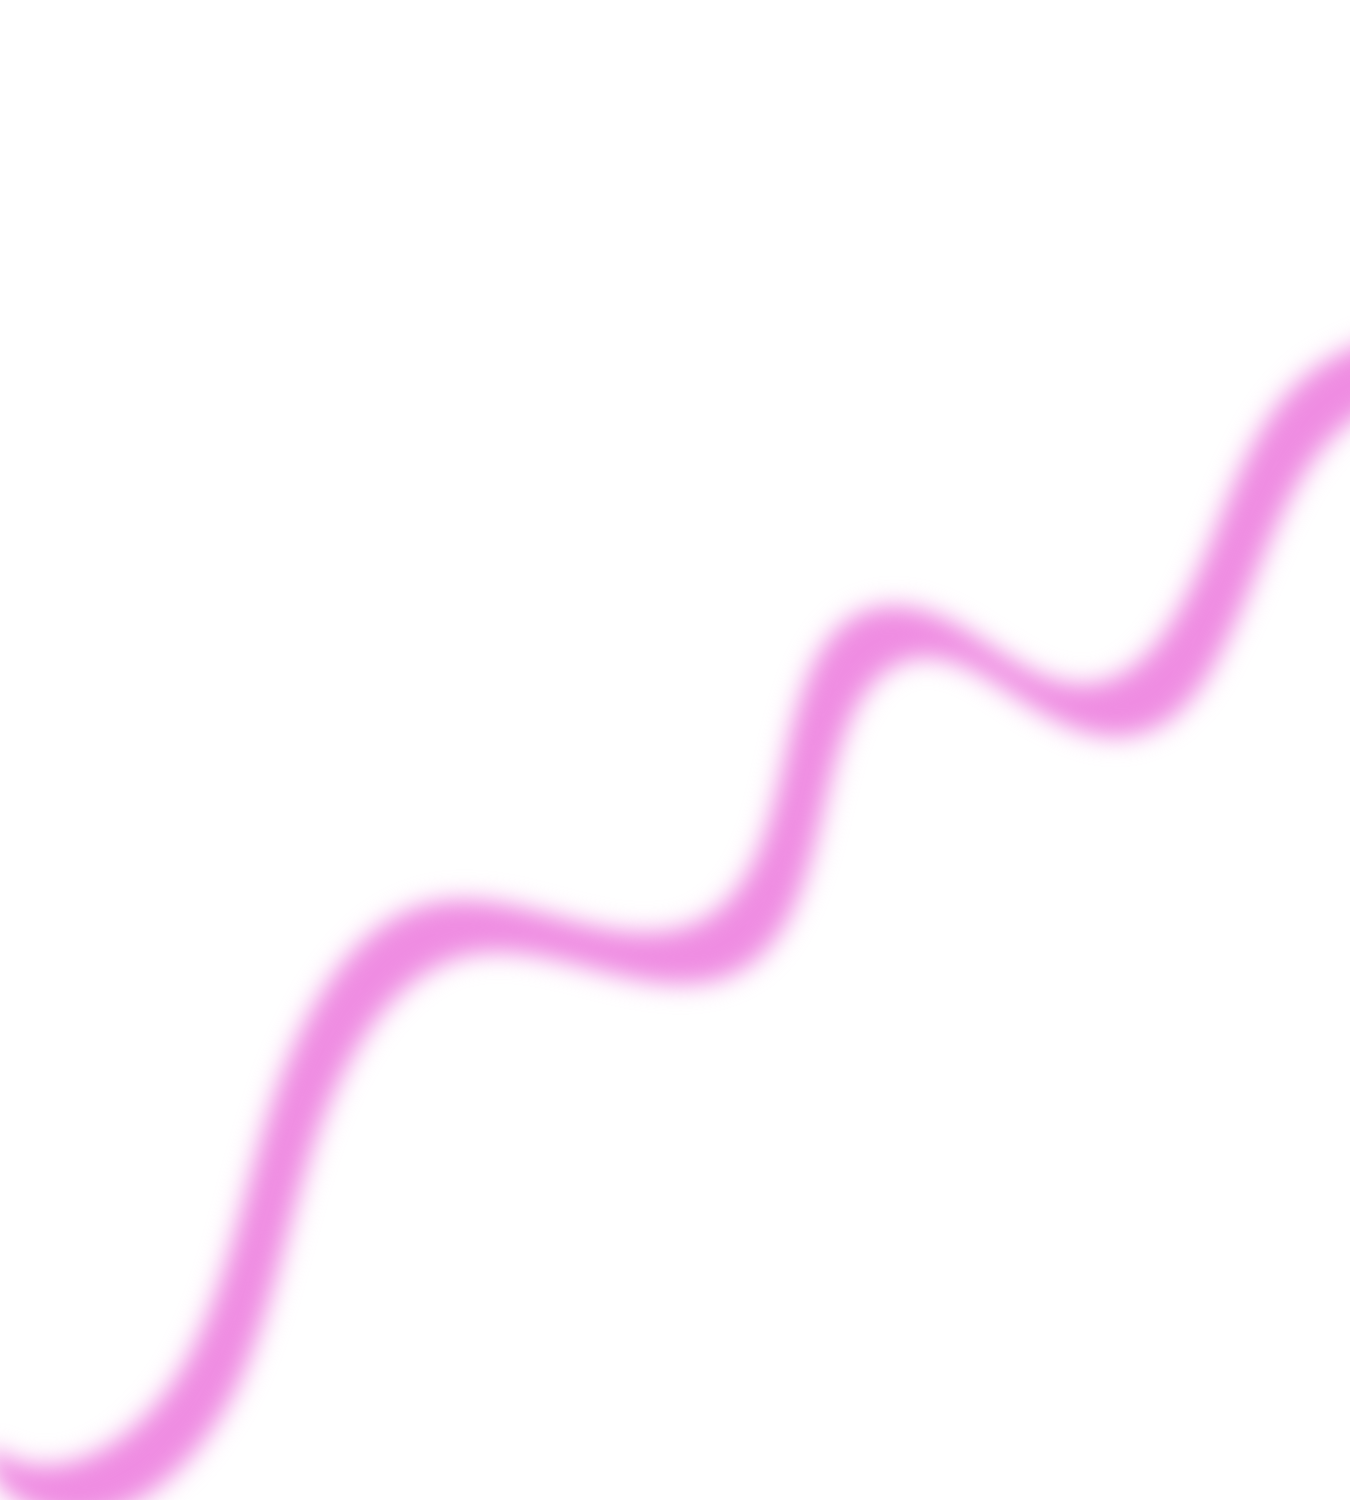
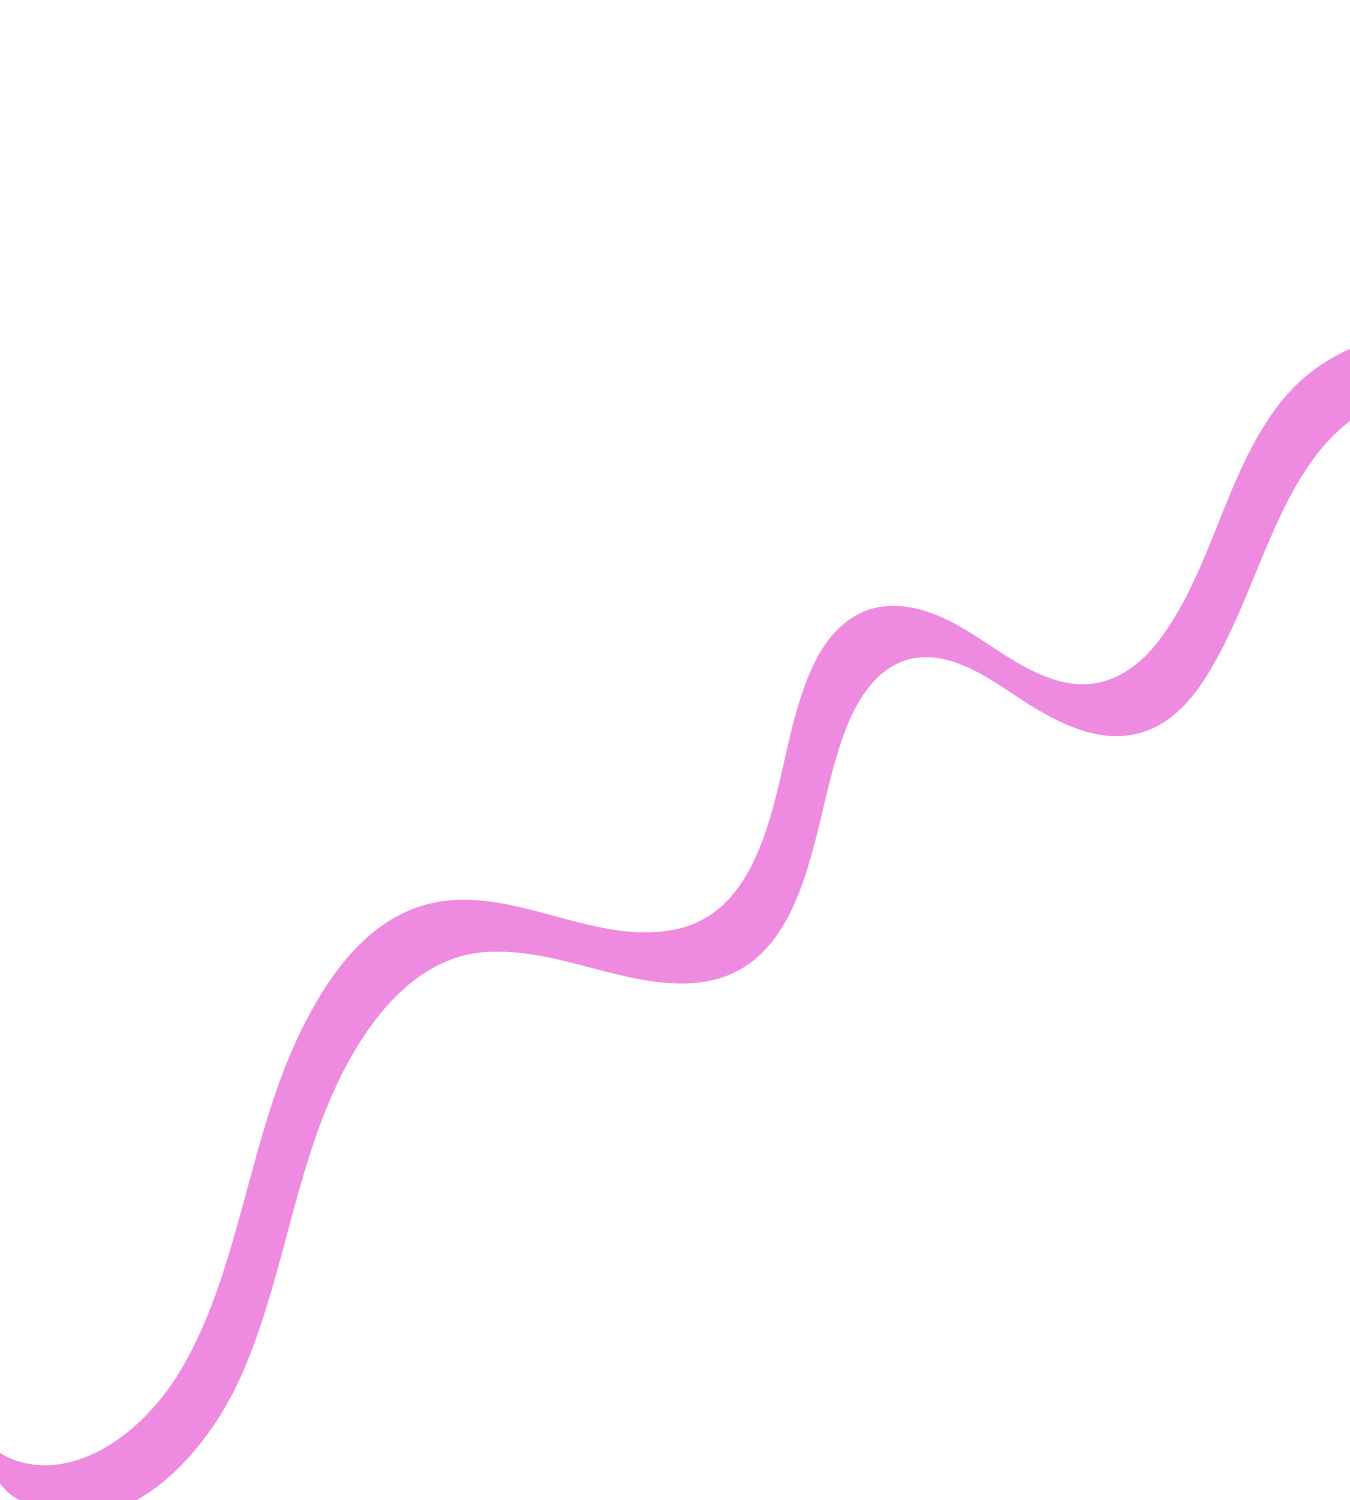
push

Changed region(s): [[0.0, 0.2147, 1.0, 1.0]]

diff --git a/create/create.html b/create/create.html
@@ -20,7 +20,7 @@
             <button class="curl " data-img="curly">curly</button>
             <button class="curl " data-img="curlcoil">curly/coily</button>
             <button class="curl " data-img="coily">coily</button>
-            <button class="curl " data-img="coily">All</button>
+            <button class="curl " data-img="all">All</button>
           </div>
 
           <div class="btn-group">
@@ -54,9 +54,9 @@
             <!-- images tag with background label only  -->
             <img id="wavyImg"src="../images/wavy.png" style="position: absolute; width: 43.9%; height: 50%; top: 36%; left: 26.5%;"/>
             <img id="volumeImg"src="../images/volume.png" style="position: absolute; width: 43.9%; height: 50%; top: 35%; left: 29%;" />
-            <!-- <img id="wavy1Img"src="../images/wavy1.png" style="position: absolute; width: 43.9%; height: 50%; top: 36%; left: 26.5%;"/> -->
-            <img id="productImg"src="../images/gel.png" style="position: absolute; width: 43.9%; height: 50%; top: 34%; left: 29%;"/>
-            <img id="lightImg" src="../images/light.png" style="position: absolute; width: 43.9%; height: 50%; top: 34%; left: 29%;"/>
+          <img id="wavy1Img"src="../images/wavy1.png" style="position: absolute; width: 43.9%; height: 50%; top: 36%; left: 26.5%;"/> 
+            <img id="productImg"src="../images/gel.png" style="position: absolute; width: 43.9%; height: 50%; top: 34%; left: 26.6%;"/>
+            <img id="lightImg" src="../images/light.png" style="position: absolute; width: 43.9%; height: 50%; top: 34%; left: 26.6%;"/>
           </div>
         </div>
       </div>

diff --git a/create/create.js b/create/create.js
@@ -101,6 +101,21 @@ console.log(curlButtons);
 
 for (const button of curlButtons) {
   button.addEventListener("click", function (event) {
+    const base = document.getElementById("wavyImg"); // wavy/curly/coily base
+    const overlay = document.getElementById("wavy1Img"); // wavy1/curly1/coily1 overlay
+
+    const name = event.target.dataset.img; // ex: "curly", "coily", "all"
+
+    base.src = `../images/${name}.png`;
+    overlay.src = `../images/${name}1.png`; // ex: "curly1.png", "coily1.png"
+
+    for (const b of curlButtons) b.classList.remove("clicked");
+    event.target.classList.add("clicked");
+  });
+}
+
+for (const button of curlButtons) {
+  button.addEventListener("click", function (event) {
     console.log(event.target.dataset.img);
     const img = document.getElementById("wavyImg");
     img.src = `../images/${event.target.dataset.img}.png`;

diff --git a/create/create.css b/create/create.css
@@ -96,6 +96,33 @@ h2 {
   position: relative;
 }
 
+.container div.content .images img {
+  height: 100%;
+  position: absolute;
+  top: 0;
+  left: 0;
+}
+
+#wavyImg {
+  z-index: 1;
+}
+
+#volumeImg {
+  z-index: 2;
+}
+
+#wavy1Img {
+  z-index: 3;
+}
+
+#productImg {
+  z-index: 4;
+}
+
+#lightImg {
+  z-index: 5;
+}
+
 button.clicked {
   background-color: blue;
   color: #ffffff;

diff --git a/products/product.css b/products/product.css
@@ -11,7 +11,7 @@ body {
 
 .card {
   background-color: white;
-  border: 1px solid blue;
+  border: 1px solid #0000ff;
   color: blue;
   padding: 12px;
   width: 28%;
